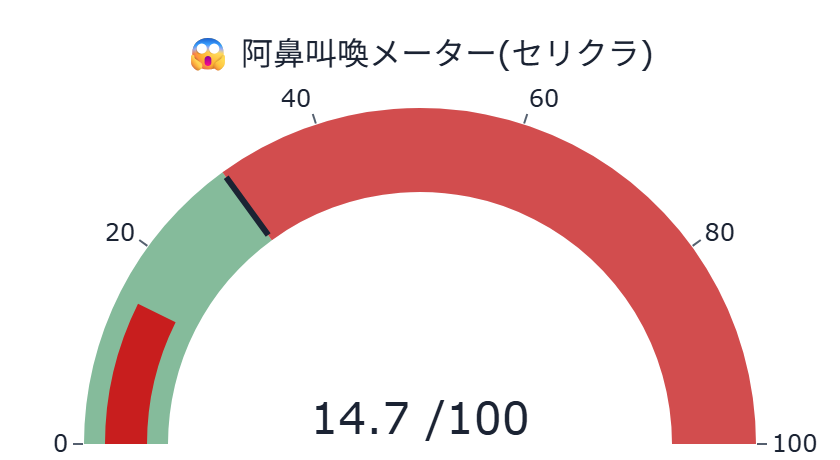
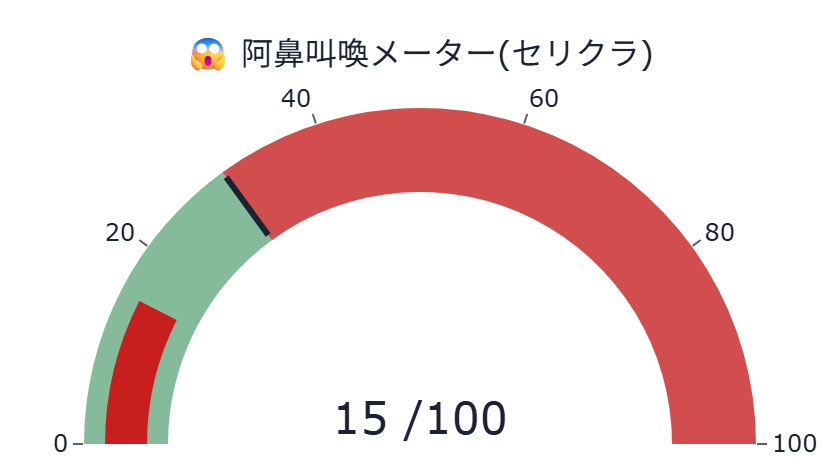
auto: refresh static dashboard (2026-08-25 03:55:20 JST)

Changed region(s): [[0.3714, 0.8522, 0.65, 0.9435], [0.1857, 0.6696, 0.2167, 0.7], [0.1548, 0.6391, 0.1857, 0.6696]]

diff --git a/docs/index.html b/docs/index.html
@@ -86,7 +86,7 @@
         <span class="price">50,930円</span>
         <span class="chg" style="color:#8B94A3">—</span>
       </div>
-      <p class="caption">更新時刻: 2026-08-25T03:44:07（データは1分間隔で自動生成され、このページも
+      <p class="caption">更新時刻: 2026-08-25T03:54:39（データは1分間隔で自動生成され、このページも
       60秒毎に自動再読み込みされます）</p>
       
       <p id='visit-count-badge' class='caption'>👀 累計閲覧数: 447</p>
@@ -118,8 +118,8 @@
 <div class='signal-row'><div class='signal-name'>イナゴ語彙(euphoria)<div class='signal-desc'>「爆上げ」「握力」等、熱狂・便乗を示す語彙が投稿にどれだけ含まれるか。</div></div><div class='signal-note'>euphoria指数1.7/100投稿</div><div><span style='display:inline-block;border-radius:999px;padding:2px 10px;font-size:.82em;font-weight:600;color:#fff;background:#15803D;white-space:nowrap'>OK (現在値1.70 / 閾値&gt;=5.5/100投稿)</span></div></div>
 <div class='signal-row'><div class='signal-name'>ネームド集中<div class='signal-desc'>特定の常連投稿者(ハッシュ化ID)に投稿が偏っていないか(少数の声が目立ちすぎていないか)。</div></div><div class='signal-note'>上位5人シェア11%</div><div><span style='display:inline-block;border-radius:999px;padding:2px 10px;font-size:.82em;font-weight:600;color:#fff;background:#C81E1E;white-space:nowrap'>発火 (現在値0.11 / 閾値&gt;=0.1)</span></div></div>
 <div class='signal-row'><div class='signal-name'>他銘柄混入率<div class='signal-desc'>本銘柄の掲示板で他の銘柄コードへの言及がどれだけ多いか(関心が他へ移りつつあるサイン)。</div></div><div class='signal-note'>他銘柄言及15% (関心離散のサイン)</div><div><span style='display:inline-block;border-radius:999px;padding:2px 10px;font-size:.82em;font-weight:600;color:#fff;background:#C81E1E;white-space:nowrap'>発火 (現在値0.15 / 閾値&gt;=0.11)</span></div></div>
-<div class='signal-row'><div class='signal-name'>暴落煽り語彙<div class='signal-desc'>「暴落」「終わった」等、悲観・煽りを示す語彙が投稿にどれだけ含まれるか。</div></div><div class='signal-note'>煽り指数3.5/100投稿</div><div><span style='display:inline-block;border-radius:999px;padding:2px 10px;font-size:.82em;font-weight:600;color:#fff;background:#15803D;white-space:nowrap'>OK (現在値3.50 / 閾値&gt;=5.0/100投稿)</span></div></div>
-<div class='signal-row'><div class='signal-name'>阿鼻叫喚(セリクラ)<div class='signal-desc'>株価が安値圏にある中で悲観語彙が急増しているか(セリングクライマックスの兆候)。</div></div><div class='signal-note'>阿鼻叫喚スコア14.7 安値圏外</div><div><span style='display:inline-block;border-radius:999px;padding:2px 10px;font-size:.82em;font-weight:600;color:#fff;background:#15803D;white-space:nowrap'>OK (現在値14.70 / 閾値&gt;30)</span></div></div>
+<div class='signal-row'><div class='signal-name'>暴落煽り語彙<div class='signal-desc'>「暴落」「終わった」等、悲観・煽りを示す語彙が投稿にどれだけ含まれるか。</div></div><div class='signal-note'>煽り指数3.4/100投稿</div><div><span style='display:inline-block;border-radius:999px;padding:2px 10px;font-size:.82em;font-weight:600;color:#fff;background:#15803D;white-space:nowrap'>OK (現在値3.40 / 閾値&gt;=5.0/100投稿)</span></div></div>
+<div class='signal-row'><div class='signal-name'>阿鼻叫喚(セリクラ)<div class='signal-desc'>株価が安値圏にある中で悲観語彙が急増しているか(セリングクライマックスの兆候)。</div></div><div class='signal-note'>阿鼻叫喚スコア15.0 安値圏外</div><div><span style='display:inline-block;border-radius:999px;padding:2px 10px;font-size:.82em;font-weight:600;color:#fff;background:#15803D;white-space:nowrap'>OK (現在値15.00 / 閾値&gt;30)</span></div></div>
 <div class='signal-row'><div class='signal-name'>話題枯れ<div class='signal-desc'>過去の平均と比べて本日の投稿数が著しく少ないか(閑散・関心低下のサイン)。</div></div><div class='signal-note'>投稿数z=-1.3 (負=閑散)</div><div><span style='display:inline-block;border-radius:999px;padding:2px 10px;font-size:.82em;font-weight:600;color:#fff;background:#C81E1E;white-space:nowrap'>発火 (現在値-1.30 / 閾値z&lt;-1)</span></div></div>
 <div class='signal-row'><div class='signal-name'>投稿サージ<div class='signal-desc'>過去の平均と比べて本日の投稿数が著しく多いか(急な注目集中のサイン)。</div></div><div class='signal-note'>投稿数z=-1.3 (量→ボラ予測が文献の主結果)</div><div><span style='display:inline-block;border-radius:999px;padding:2px 10px;font-size:.82em;font-weight:600;color:#fff;background:#15803D;white-space:nowrap'>OK (現在値-1.30 / 閾値z&gt;2)</span></div></div></div>
       <p class="caption">※研究・エンタメ用途・未検証。売買シグナルではありません。
@@ -150,22 +150,24 @@
       
 
       <h2>🤖 AI考察</h2>
-      <div class='metric-row'><div class='metric-card'><div class='metric-label'>株価</div><div class='metric-value'>50,930円</div><div class='metric-delta'>+0円</div></div><div class='metric-card'><div class='metric-label'>強気比率</div><div class='metric-value'>36.4%</div><div class='metric-delta'>+0.1pt</div></div><div class='metric-card'><div class='metric-label'>弱気比率</div><div class='metric-value'>54.5%</div><div class='metric-delta'>-0.1pt</div></div></div><p class='caption'>前回集計(2026-08-25T03:34:57)との比較</p>
-      <div class='ai-box'>本資料は、掲示板の集計センチメントデータに基づく分析であり、投資助言ではありません。<br>
+      <div class='metric-row'><div class='metric-card'><div class='metric-label'>株価</div><div class='metric-value'>50,930円</div><div class='metric-delta'>+0円</div></div><div class='metric-card'><div class='metric-label'>強気比率</div><div class='metric-value'>36.1%</div><div class='metric-delta'>-0.3pt</div></div><div class='metric-card'><div class='metric-label'>弱気比率</div><div class='metric-value'>54.5%</div><div class='metric-delta'>+0.0pt</div></div></div><p class='caption'>前回集計(2026-08-25T03:44:07)との比較</p>
+      <div class='ai-box'>本レポートは、掲示板の集計センチメントデータに基づく分析であり、投資助言ではありません。<br>
 <br>
-キオクシアホールディングス（285A）について、寄り付き前の現時点における掲示板の集計データを整理します。前営業日の終値を基準とした現在値は50,930.0円となっており、直近の日次推移を見ると、8月17日に61,840円まで上昇した後、現在は緩やかな調整局面にあることが見て取れます。<br>
+キオクシアホールディングス（285A）について、寄り付き前の現時点における掲示板のセンチメント状況をまとめます。前営業日の終値は50,930.0円となっており、直近の日次推移を見ると、8月17日以降の価格変動に伴い、強気・弱気の比率が大きく推移していることが確認できます。<br>
 <br>
-掲示板のセンチメントについては、強気比率が36.4％に対し、弱気比率が54.5％となっており、やや弱気の姿勢が目立つ状況です。前回の集計時点（約8分前）と比較すると、価格や強気・弱気比率はほぼ横ばいですが、投稿数がわずかに増加しており、静かながらも一定の関心は維持されています。<br>
+掲示板の集計数値では、強気比率が36.1％に対し、弱気比率が54.5％となっており、相対的に弱気な見方が優勢な状況です。前回の集計（約10分前）と比較すると、価格は変わらず、強気比率は0.3ポイント低下し、投稿数は9件増加しており、短時間での大きな変化は見られません。<br>
 <br>
-ボラティリティのレジームについては「calibrating（較正中）」となっており、現在の値動きの荒さを示す指標が確定するまでの過程にあります。また、9つの統計的シグナルを確認すると、「ネームド集中」および「他銘柄混入率」において「発火」の状態を示しています。これは特定のユーザーへの関心の偏りや、他の銘柄への関心も分散していることを示す統計的な指標です。一方で、過熱度や暴落煽りに関する指標は平常範囲内（OK）に留まっています。<br>
+ボラティリティのレジーム帯については「calibrating（較正中）」となっており、現在のボラティリティ指標（BVP=0.18）に基づいた安定的な推移を評価する段階にあります。過熱度スコアは7.1、総悲観度スコアは15.0と低水準にあり、統計的な過熱感や極端な阿鼻叫喚といった反応は見られません。<br>
 <br>
-前回取引日からの状態変化としては、「ネームド集中」と「他銘柄混入率」が警戒から発火へ移行しており、関心の所在や分散の傾向に変化が見られます。また、「話題枯れ」についても発火しており、投稿数の統計的な推移からは一定の閑散状態にあることが示唆されています。<br>
+一方で、9指標のシグナル発火状況にはいくつかの特徴が見られます。「ネームド集中」および「他銘柄混入率」が発火しており、特定のユーザーへの関心の偏りや、他銘柄への関心離散の兆候が統計的に示されています。また、前回取引日からの状態変化として、これら2つの指標に加え、「話題枯れ」もOKから発火へと移行しています。これは掲示板内での活発な議論が一時的に停滞している可能性を示唆する数値です。<br>
 <br>
-なお、取引時間外の動きを確認すると、PTSでは前日終値比で-2.16％、米国ADR（円換算）では-1.32％となっており、翌営業日の寄り付きに向けた参考情報として付随しています。総悲観度スコアは14.7と算出されており、過熱度スコアの7.1と比較すると、現時点では極端なパニック状態には至っていないものの、弱気的なセンチメントが一定数存在していることがデータから読み取れます。</div><p class='caption'>生成時刻: 2026-08-25T03:44:07</p>
+なお、東証の取引時間外における動きを確認すると、PTSでは前日終値比で-2.16％（49,830.0円）、米国ADRは-1.59％（50,118.0円）となっており、寄り付きに向けた参考情報として付随しています。<br>
+<br>
+総じて、掲示板上では弱気なセンチメントが一定数存在しつつも、話題の停滞や関心の分散といった統計的な偏りが一部で見られる状態にあります。</div><p class='caption'>生成時刻: 2026-08-25T03:54:39</p>
 
       <hr style="border:none;border-top:1px solid var(--border);margin:2rem 0 1rem">
       <p class="caption">⚠ 本情報は掲示板投稿を統計的に集計したものであり、投資助言ではありません。個別の投稿内容は含まれていません。研究・エンタメ用途です。</p>
-      <footer>生成: generate_static_dashboard.py（2026-08-25T03:54:33） /
+      <footer>生成: generate_static_dashboard.py（2026-08-25T03:55:10） /
       画像バックエンド: plotly+kaleido</footer>
     </div>
     <script>(function(){var url="https://script.google.com/macros/s/AKfycbwgSSGQ2n56ohmIYKlNDA1Xe3D8hd3GJbD0U90L4DGtXdb8pqrPokNMHJWjvN1__7bE/exec";var KEY='bbs_visit_counted';var already=sessionStorage.getItem(KEY);var action=already?'read':'hit';var ctrl=(typeof AbortController!=='undefined')?new AbortController():null;var timer=ctrl?setTimeout(function(){ctrl.abort();},5000):null;fetch(url+'?action='+action,{signal:ctrl?ctrl.signal:undefined}).then(function(r){if(timer)clearTimeout(timer);return r.json();}).then(function(data){if(!already)sessionStorage.setItem(KEY,'1');if(data&&typeof data.count==='number'){var el=document.getElementById('visit-count-badge');if(el){el.textContent='\u{1F440} \u7d2f\u8a08\u95b2\u89a7\u6570: '+data.count.toLocaleString();el.style.display='';}}}).catch(function(e){if(timer)clearTimeout(timer);console.warn('visit counter fetch failed (fail-soft):',e);});})();</script></body></html>
